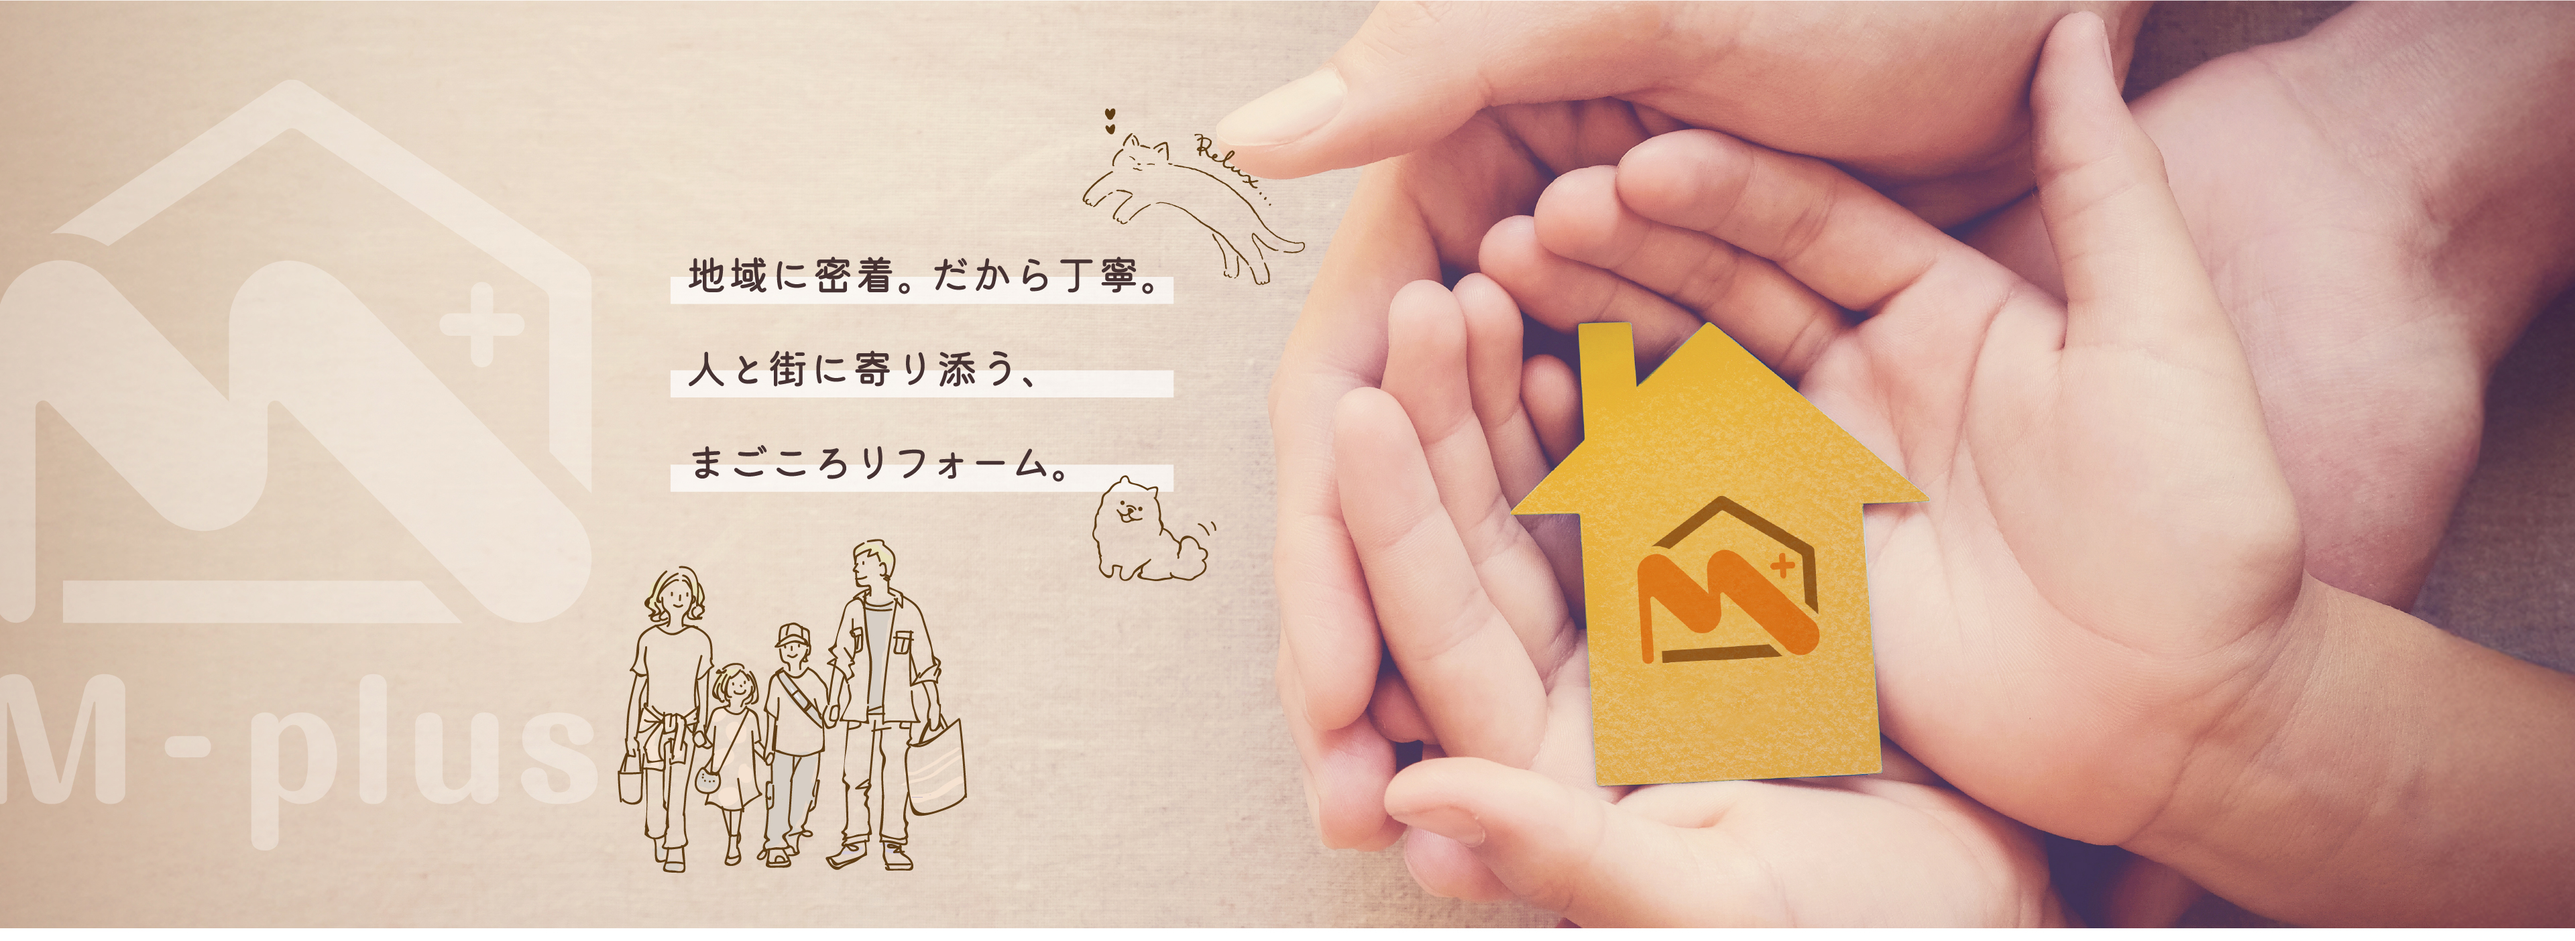
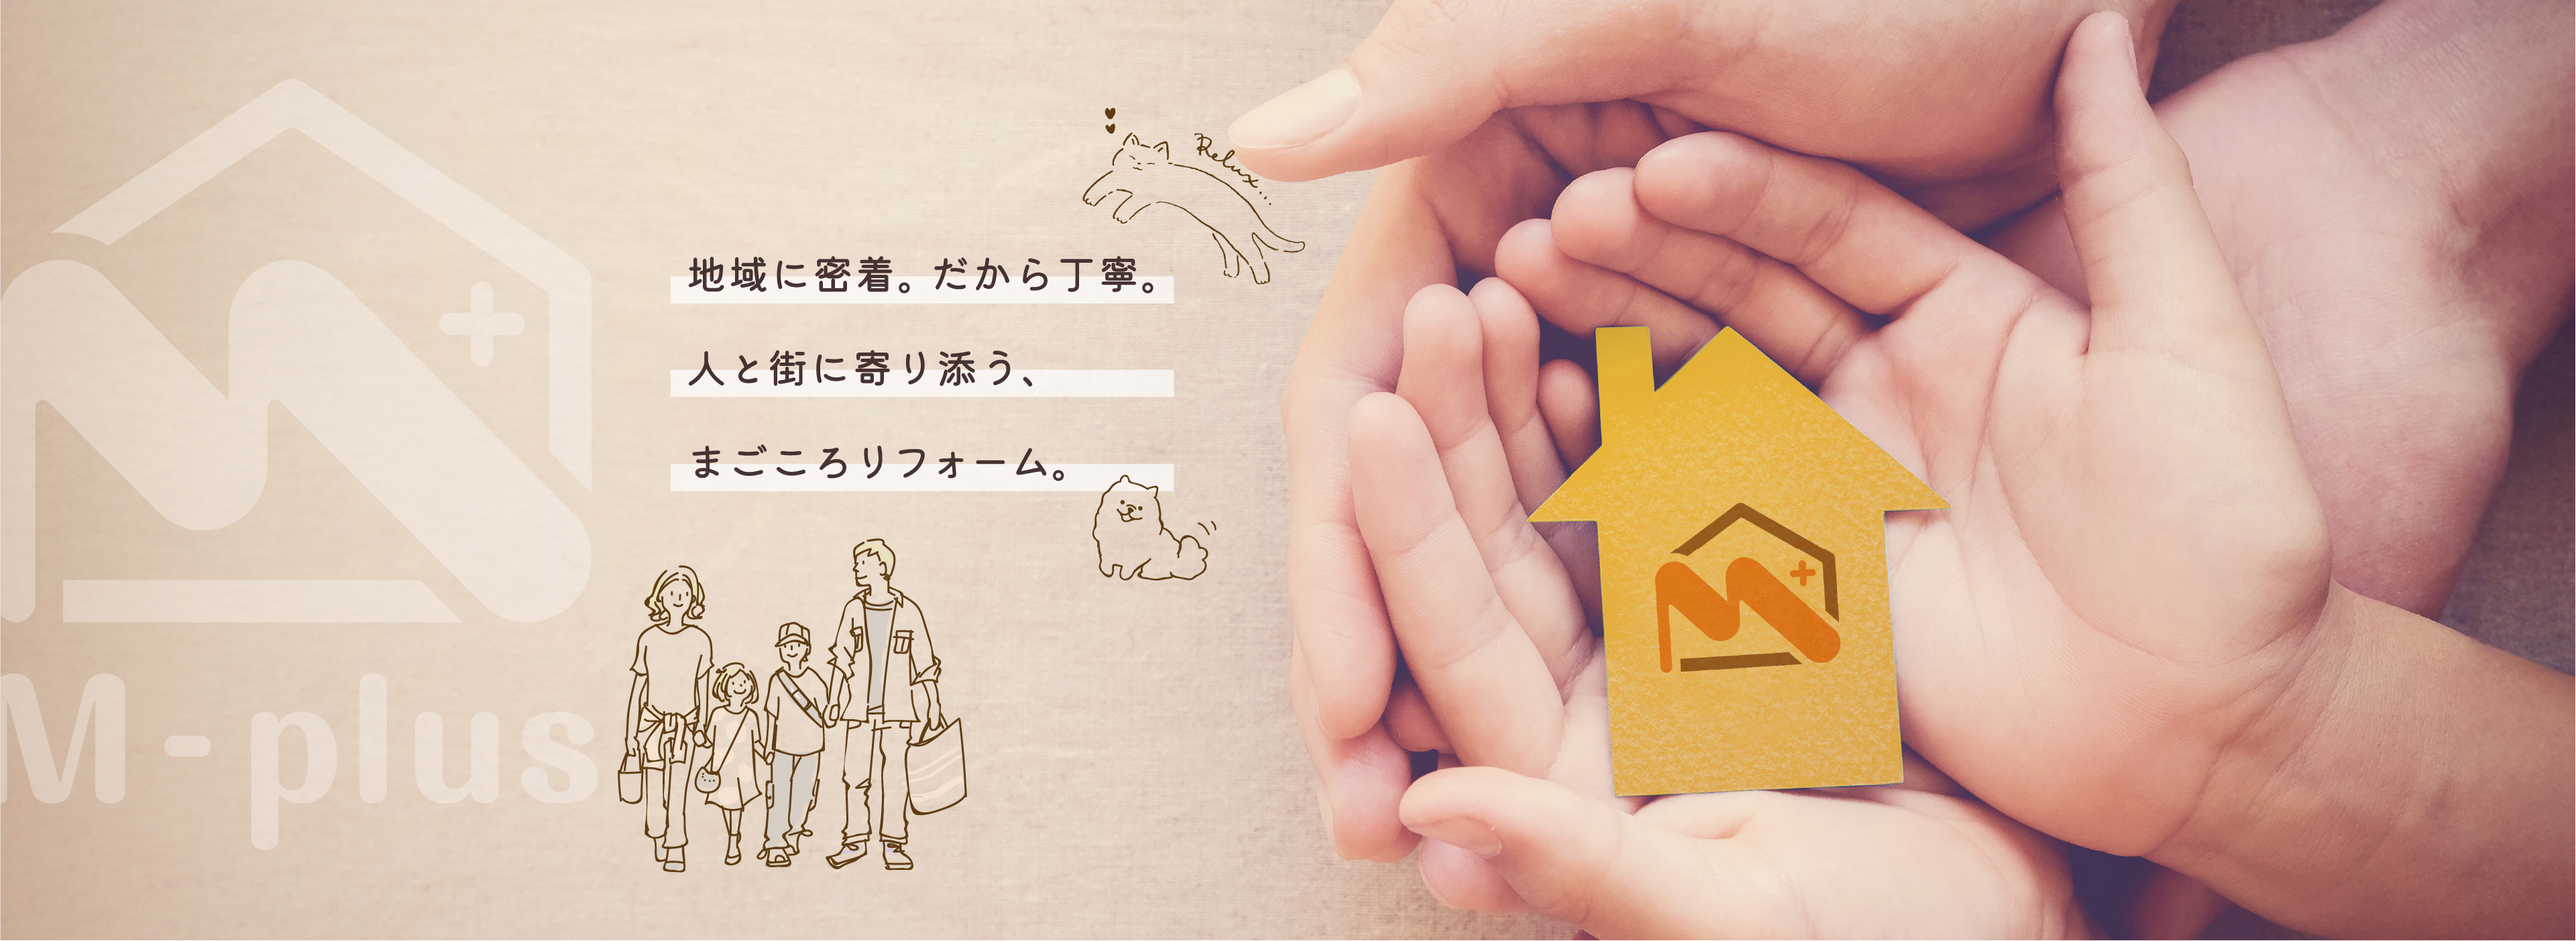
波アニメーション

diff --git a/src/sass/module/_wave.scss b/src/sass/module/_wave.scss
@@ -1,69 +1,13 @@
 @use 'global' as *;
 
-.wave {
-	overflow:hidden;
-	// margin: rem(-100) auto;
-	// background-color:#fff;
-    z-index: 99;
+.wave-container {
+    margin-top: -5vw;
     position: relative;
-    // height: 255px;
-    // width: 1920px;
-    // width: rem(300);
-    // height: rem(300);
-
-    // background-image: url('../images/common/bg.svg');
-    // background-size: contain;
-    // background-repeat: no-repeat;
-    // background-position: top left;
-    // padding-top: 150px;
-}
-
-// .wave::before {
-//     position:absolute;
-//     top:-150%;
-//     left:-50%;
-//     // border-radius:50% 50% / 50% 70%;
-//     width:200%;
-//     height:200%;
-//     content:"";
-//     background-color:#3168dd;
-//     animation:wave linear 6s infinite;
-// }
-
-.wave svg {
-    position: absolute;
-    bottom: 0;
-    left: 0;
-    width: 200%;
-    height: auto;
-    animation: waveAnimation 5s linear infinite;
-}
-
-.wave svg path {
-
-	// fill: red;
-	animation: wave linear 4s infinite;
-}
-
-@keyframes wave {
-	// from {
-	// 	transform: rotate(0deg);
-	// }
-	// to {
-	// 	transform: rotate(360deg);
-	// }
-    // from {
-    //     transform: translate(-50%, -50%) rotate(0deg);
-    // }
-    // to {
-    //     transform: translate(-50%, -50%) rotate(360deg);
-    // }
-    // from {
-	// 	transform:translate(0);
-	// }
-	// to {
-	// 	transform:translate(-66.66%);
-	// }
-    // 0% { transform: translateX(0); }
-    // 100% { transform: translateX(-50%); }
+    height: 13%;
+    width: 100%;
+    overflow: hidden;
+    z-index: 1;
+    @include mq() {
+        margin-top: -6vw;
+    }
 }

diff --git a/src/sass/page/_swiper.scss b/src/sass/page/_swiper.scss
@@ -19,6 +19,10 @@
     object-fit: cover;
   }
 
+  .swiper-pagination {
+    z-index: 2;
+  }
+
   .swiper-pagination-bullet {
     background: $gray7;
     border: 1px solid $beige3;
@@ -28,6 +32,13 @@
     @include mq() {
       width: rem(7);
       height: rem(7);
+    }
+  }
+
+  .swiper-horizontal>.swiper-pagination-bullets, .swiper-pagination-bullets.swiper-pagination-horizontal, .swiper-pagination-custom, .swiper-pagination-fraction {
+    bottom: 6%;
+    @include mq() {
+      bottom: -1%;
     }
   }
 

diff --git a/front-page.php b/front-page.php
@@ -23,28 +23,31 @@
             </div>
         </div>
         <div class="swiper-pagination"></div>
+        <div class="mv__wave wave-container">
+            <svg class="wave" xmlns="http://www.w3.org/2000/svg" viewBox="0 0 1920 140">
+                <!-- PCの波 -->
+                <path class="wave1 u-desktop" fill="#fff">
+                    <animate attributeName="d" values="
+                            M0,50 Q320,0 640,50 T1280,50 T1920,50 V100 H0 Z;
+                            M0,50 Q320,100 640,50 T1280,50 T1920,50 V100 H0 Z;
+                            M0,50 Q320,0 640,50 T1280,50 T1920,50 V100 H0 Z
+                        " dur="10s" repeatCount="indefinite" keyTimes="0;0.5;1" calcMode="spline" keySplines=".25,.1,.25,1; .25,.1,.25,1"/>
+                </path>
+                <!-- SPの波 -->
+                <path class="wave1 u-mobile" fill="#fff">
+                    <animate attributeName="d" values="
+                    M0,70 Q320,0 640,70 T1280,70 T1920,70 V140 H0 Z;
+                    M0,70 Q320,140 640,70 T1280,70 T1920,70 V140 H0 Z;
+                    M0,70 Q320,0 640,70 T1280,70 T1920,70 V140 H0 Z
+                " dur="6s" repeatCount="indefinite" keyTimes="0;0.5;1" calcMode="spline" keySplines=".25,.1,.25,1; .25,.1,.25,1"/>
+                </path>
+            </svg>
+        </div>
     </div>
 </div>
 
-<div class="wave">
-    <!-- <svg xmlns="http://www.w3.org/2000/svg" xmlns:xlink="http://www.w3.org/1999/xlink" xmlns:i="http://ns.adobe.com/AdobeIllustrator/10.0/" version="1.1" viewBox="0 0 1920 255.1"> -->
-    <!-- <svg xmlns="http://www.w3.org/2000/svg" xmlns:xlink="http://www.w3.org/1999/xlink" xmlns:i="http://ns.adobe.com/AdobeIllustrator/10.0/" version="1.1" viewBox="0 0 1920 300" width="1920" height="300">
-    <defs>
-        <clipPath id="clippath">
-          <rect width="1920" height="255.1" style="fill: none;"/>
-          <rect width="900" height="300" style="fill: none;"/>
-        </clipPath>
-      </defs>
-      <g id="_新着情報">
-        <g style="clip-path: url(#clippath);">
-          <path d="M1003.9,20.7C581.7,63.5,406.5,77.7-37.5,33.3v222.6h2000V46.5c-199.3-33.7-537.2-68.6-958.6-25.8Z"/>
-        </g>
-      </g>
-    </svg> -->
-    <!-- <svg xmlns="http://www.w3.org/2000/svg" xmlns:xlink="http://www.w3.org/1999/xlink" xmlns:i="http://ns.adobe.com/AdobeIllustrator/10.0/" version="1.1" viewBox="0 0 1920 255" width="1920" height="255">
-        <path d="M1003.9,20.7C581.7,63.5,406.5,77.7-37.5,33.3v222.6h2000V46.5c-199.3-33.7-537.2-68.6-958.6-25.8Z"/>
-    </svg> -->
-</div>
+
+
 
 <section class="news">
     <div class="news__inner inner">
